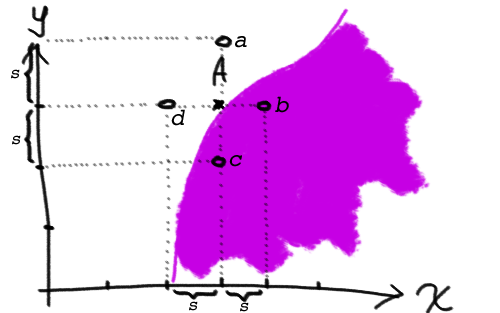
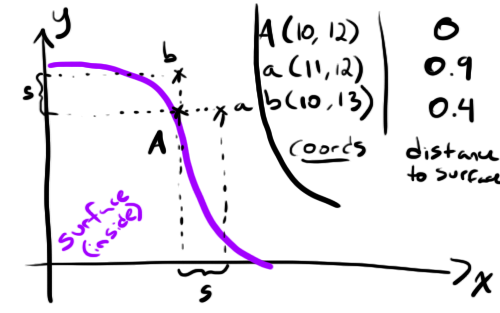
redid the previously whack normal calculation and explanation bit

diff --git a/blog/06-09-2015/main.html b/blog/06-09-2015/main.html
@@ -13,6 +13,10 @@
   <h3>September 6th 2015</h3>
   <h3><a href="../../blog.html">(Take me back to the Blog section!)</a></h3>
 
+  <p><b>EDIT</b> (7:00PM December 11th 2015) - I've fixed some issues with regards to the normal computation/explanation section with a rewrite and some new images to go along with it.</p>
+
+  <hr>
+
   <p>In this I'll be covering a very basic lighting model and animating the light source position. Let's pick up where we left off at the end of Sphere Tracing 101 with the following shader: <a href="https://www.shadertoy.com/view/4tsXzf">https://www.shadertoy.com/view/4tsXzf</a>.</p>
 
   <p>So far, we've only been returning a boolean to indicate whether or not our ray had hit the sphere. In order to figure out how the light is going to interact with the sphere's surface, we're going to need more information about the surface at that point. Enter the surface normal! The normal is a vector "pointing" in the direction that the surface is facing at a specific point in space. In other words, the surface normal is a vector perpendicular to the surface at a given point.</p>
@@ -25,55 +29,46 @@
 
   <p>For our current universe containing only a sphere, we could use the intersection point's position in 3D space to be interpreted as a vector. This will work because our sphere is centred on the origin at (0,0,0) but will break for any other type of world. We'll need a more general solution to this problem.</p>
 
-  <p>The computation used here might not seem obvious from the onset, so we'll describe a solution to the same problem in a 2D space first.</p>
+  <p>The computation used here might not seem obvious from the onset, so we'll describe a solution to the same problem in a 2D space first. In a nutshell, we'll be sampling points close to the point of intersection and taking a weighed average of their distance to the surface to work out a normal approximation. Here we go!</p>
 
   <img src="2d_normal.png" class="outlinedImage"/>
 
-  <p>Whaaaaaaaat is this about? The purple shape is our 2D surface and <b>A</b> is the point of intersection at (Ax, Ay) we're trying to find the normal for. We've then taken a unit <b>s</b> and created four new points <b>a</b>, <b>b</b>, <b>c</b> and <b>d</b> by shifting <b>A</b> by either +<b>s</b> or -<b>s</b> along either the x or the y axis.</p>
+  <p>Whaaaaaaaat is this about? The purple shape is our 2D surface and <b>A</b> is the point of intersection at (Ax, Ay) we're trying to find the normal for. We've then taken a unit <b>s</b> and created two new points <b>a</b> and <b>b</b> by shifting <b>A</b> by <b>s</b> along  the x and y axes.</p>
 
-  <p>Let's call our distance function with those new points as input and see what we get...</p>
+  <p>Let's call our distance function with those new points as input and see what we get... (I'm making these numbers up, just roll with it)</p>
   <ol>
-    <li>dist(<b>a</b>) = 0.42</li>
-    <li>dist(<b>b</b>) = -0.20</li>
-    <li>dist(<b>c</b>) = -0.18</li>
-    <li>dist(<b>d</b>) = 0.37</li>
-    <li>sum = 0.41</li>
+    <li>dist(<b>a</b>) = 0.9</li>
+    <li>dist(<b>b</b>) = 0.4</li>
   </ol>
 
-  <p>Ah, interesting. The two points that were inside the surface return negative results while the two outside return a positive value. Let's take the weighed average <b>w</b> of these four points using their distance value as weights. We get:</p>
-
-  <ol>
-    <li>0.41*w = dist(a)*a + dist(b)*b + dist(c)*c + dist(d)*d</li>
-    <li>0.41*w = 0.42*a - 0.2*b - 0.18*c + 0.37*d</li>
-    <li>0.41*w = 0.42*(Ax,Ay+s) - 0.2*(Ax+s,Ay) - 0.18*(Ax,Ay-s) + 0.37*(Ax-s,Ay)</li>
-    <li>0.41*w = (0.42*Ax - 0.2(Ax+s) - 0.18*Ax + 0.37*(Ax-s), 0.42*(Ay+s) - 0.2*Ay - 0.18*(Ay-s) + 0.37*Ay)</li>
-    <li>0.41*w = (0.41*Ax - 0.57*s, 0.41*Ay + 0.6*s)</li>
-    <li>w = (Ax - 1.39*s, Ay + 1.46*s)</li>
-  </ol>
-
-  <p>If we add <b>w</b> to the previous 2D graph, we get something that looks an awful lot like the surface normal we've been after! In fact, the surface normal at <b>A</b> is vector <b>n</b>, which is equal to (<b>w</b>-<b>A</b>)</p>
+  <p>If we take a vector whose components matches the distances of <b>a</b> and <b>b</b> we get a vector <b>n</b> perpendicular to the surface!</p>
 
   <img src="2d_normal2.png" class="outlinedImage"/>
 
-  <p>The idea is the same for a surface normal in 3D space: take the point of intersection, generate 6 new points by shifting by +<b>s</b> or -<b>s</b> along the x, y or z axes, then compute their weighed average <b>w</b> using their distance from the surface as weight and finally calculate <b>n</b>=(<b>w</b>-<b>A</b>). Easymode :)</p>
+  <p>My drawing of vector <b>n</b> isn't to scale, it's about twice as long as it would be "for realsies".</p>
+
+  <p>Note that by doing this our vector <b>n</b> isn't normalized (ie. its length isn't 1) so in our computeSurfaceNormal() function we'll have to make sure to apply the normalize() method provided by GLSL before returning the vector. Also note that this is an approximation and that in order to get the most accurate approximation possible the choice of <b>s</b> is key. You'll want an <b>s</b> that's large enough to avoid small arithmetic errors (because your point A won't be exactly on the surface, only less than epsilon distance away from it) and small enough so that the surface behaves like a straight line at your <b>a</b> and <b>b</b> sample points.</p>
+
+  <p>The idea is the same for a surface normal in 3D space: take the point of intersection, generate 3 new points by shifting by <b>s</b> along the x, y or z axes, then use their distance from the surface to generate a vector perpendicular to the surface. Easymode :)</p>
 
   <p>Let's write out the corresponding code.</p>
 
-  <pre><code>vec3 computeSurfaceNormal(vec3 p, float s){
-    vec3 a = p + vec3(-s,  0,  0);
-    vec3 b = p + vec3( s,  0,  0);
-    vec3 c = p + vec3( 0, -s,  0);
-    vec3 d = p + vec3( 0,  s,  0);
-    vec3 e = p + vec3( 0,  0, -s);
-    vec3 f = p + vec3( 0,  0,  s);
-    return
-        normalize(
-            distanceToNearestSurface(a)*(a-p) +
-            distanceToNearestSurface(b)*(b-p) +
-            distanceToNearestSurface(c)*(c-p) +
-            distanceToNearestSurface(d)*(d-p) +
-            distanceToNearestSurface(e)*(e-p) +
-            distanceToNearestSurface(f)*(f-p));
+  <pre><code>const float S = 0.1;
+
+// const delta vectors for normal calculation
+const vec3 deltax = vec3(S ,0, 0);
+const vec3 deltay = vec3(0 ,S, 0);
+const vec3 deltaz = vec3(0 ,0, S);
+
+[...]
+
+vec3 computeSurfaceNormal(vec3 p){
+    float d = distanceToNearestSurface(p);
+    return normalize(vec3(
+        distanceToNearestSurface(p+deltax)-d,
+        distanceToNearestSurface(p+deltay)-d,
+        distanceToNearestSurface(p+deltaz)-d
+    ));
 }</code></pre>
 
 <p>Now, to test this we'll make a few changes to the world intersection code so it assigns pixel colour based on the normal. Changes are in bold.</p>
